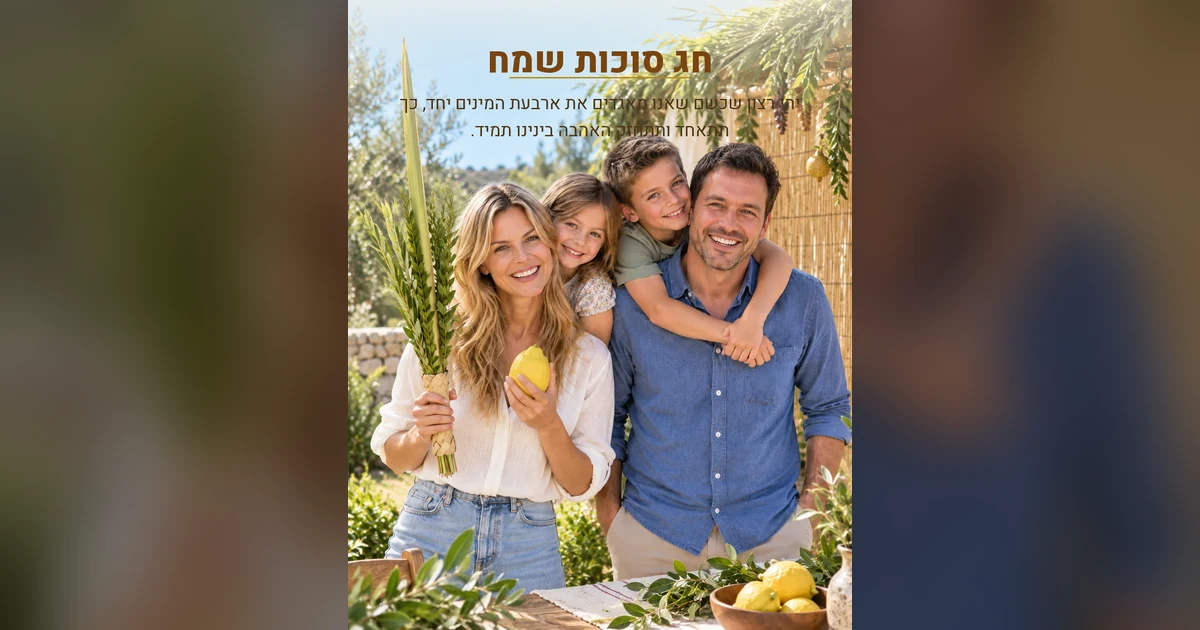
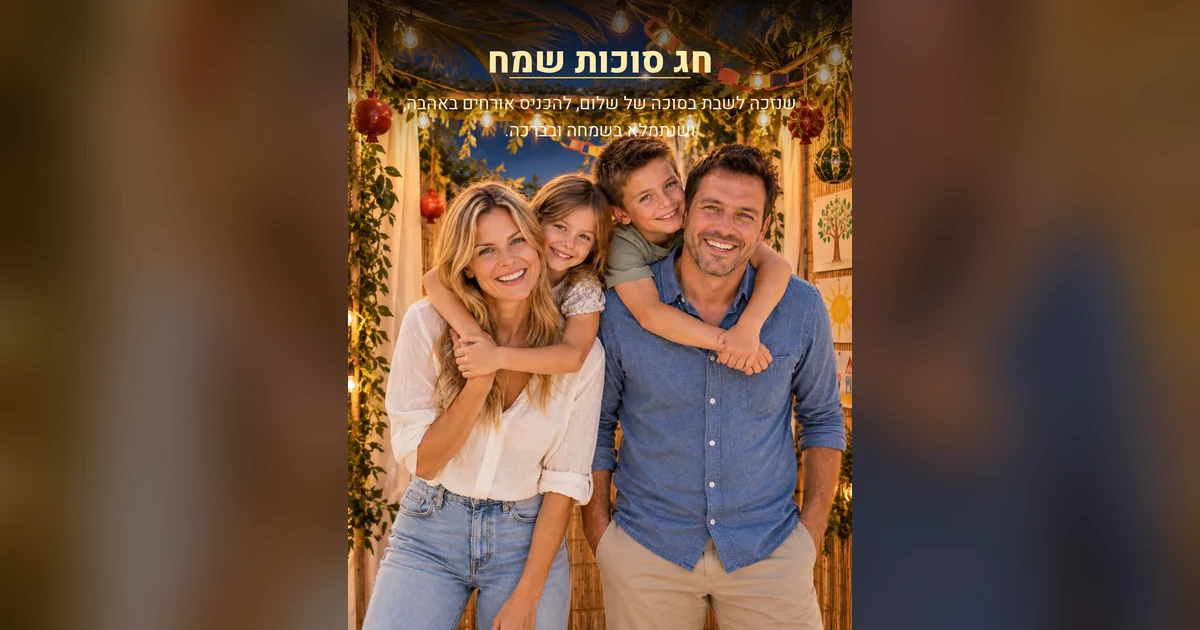
feat: Sukkot is complete — all three cards finished
after1.webp is the סוכת שלום render with its blessing on. The rewritten prompt
worked: everyone standing inside the sukkah, no table, no floor cushions, sky
and stars through the schach, and the children's drawings on the bamboo wall.

og-preview.webp is rebuilt from it, and the hub door now shows it rather than
the four-species card, since it reads as 'inside a sukkah' at a glance.

Sukkot now has no placeholders left. Yom Kippur is the only festival still on
stand-ins.

diff --git a/moments/index.html b/moments/index.html
@@ -202,7 +202,7 @@
 
                     <a class="door" href="sukkot/">
                         <div class="door-art">
-                            <img src="sukkot/images/after2.webp" alt="גלויה לסוכות" loading="lazy" decoding="async">
+                            <img src="sukkot/images/after1.webp" alt="גלויה לסוכות" loading="lazy" decoding="async">
                         </div>
                         <div class="door-body">
                             <div class="door-name">סוכות 🌿</div>
